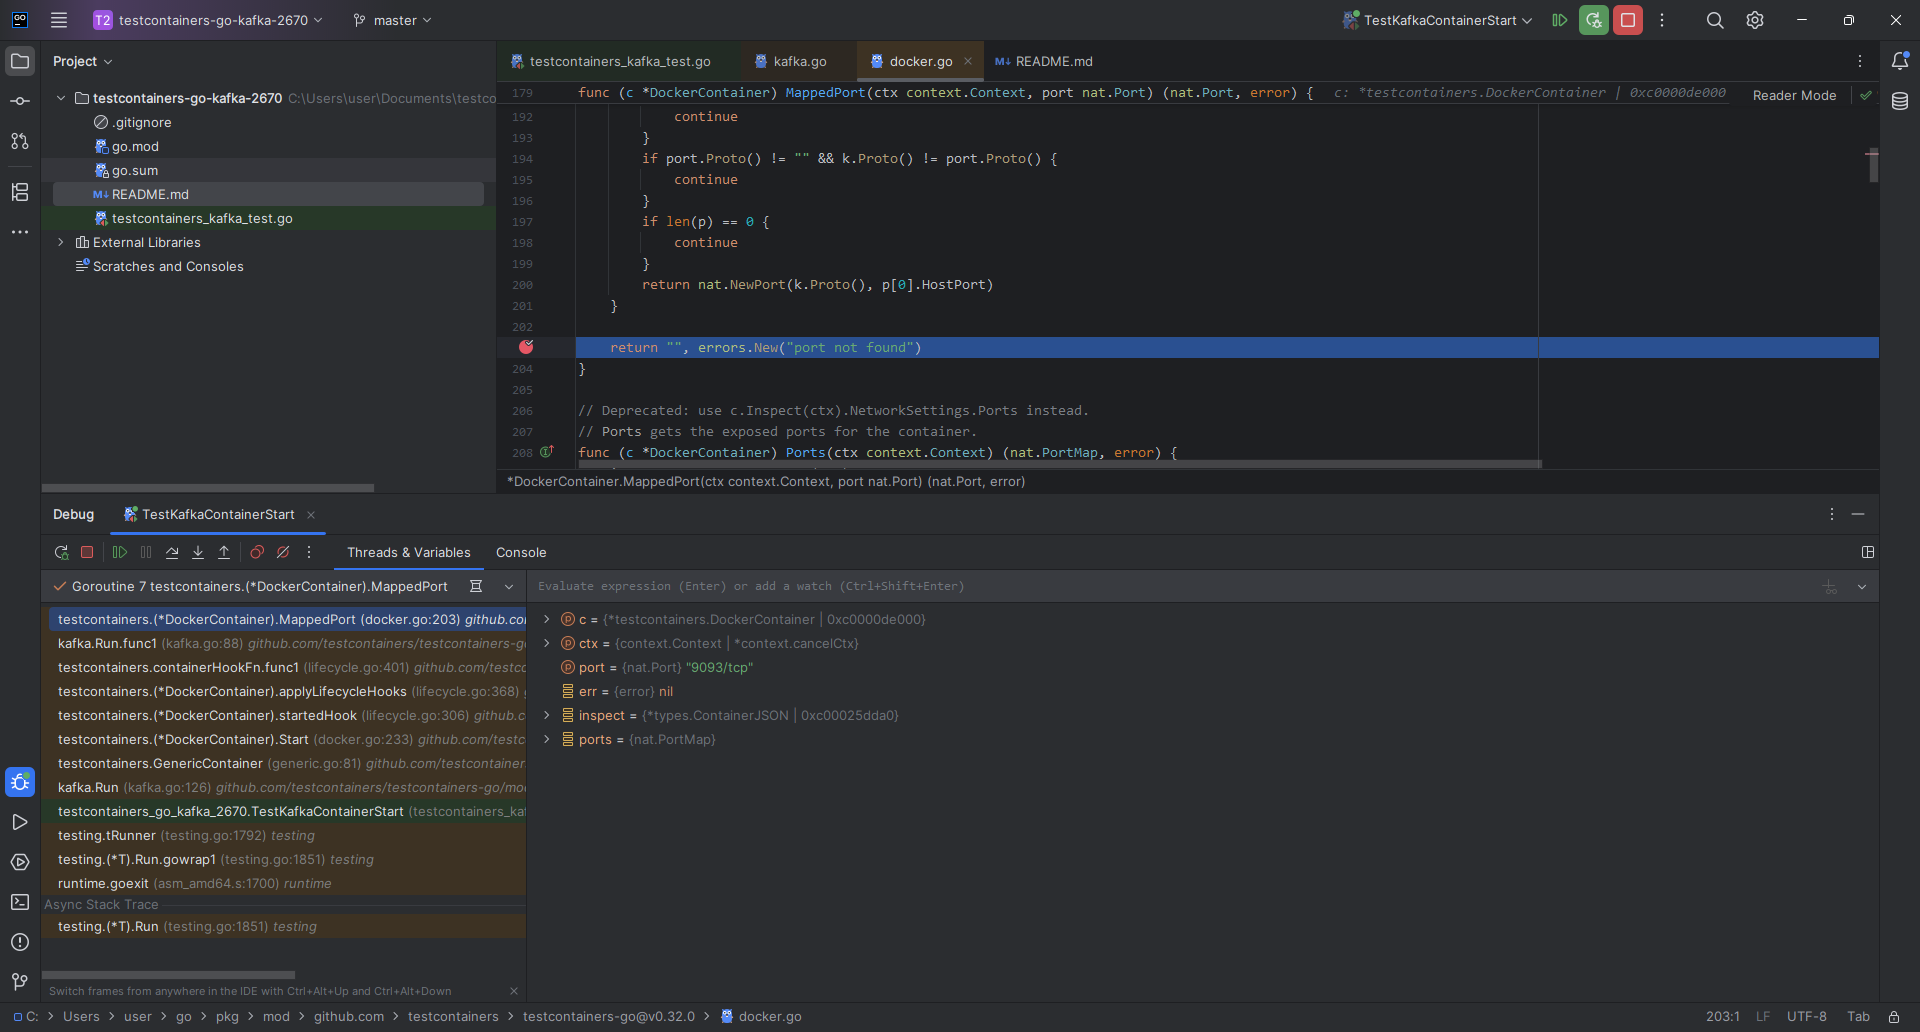
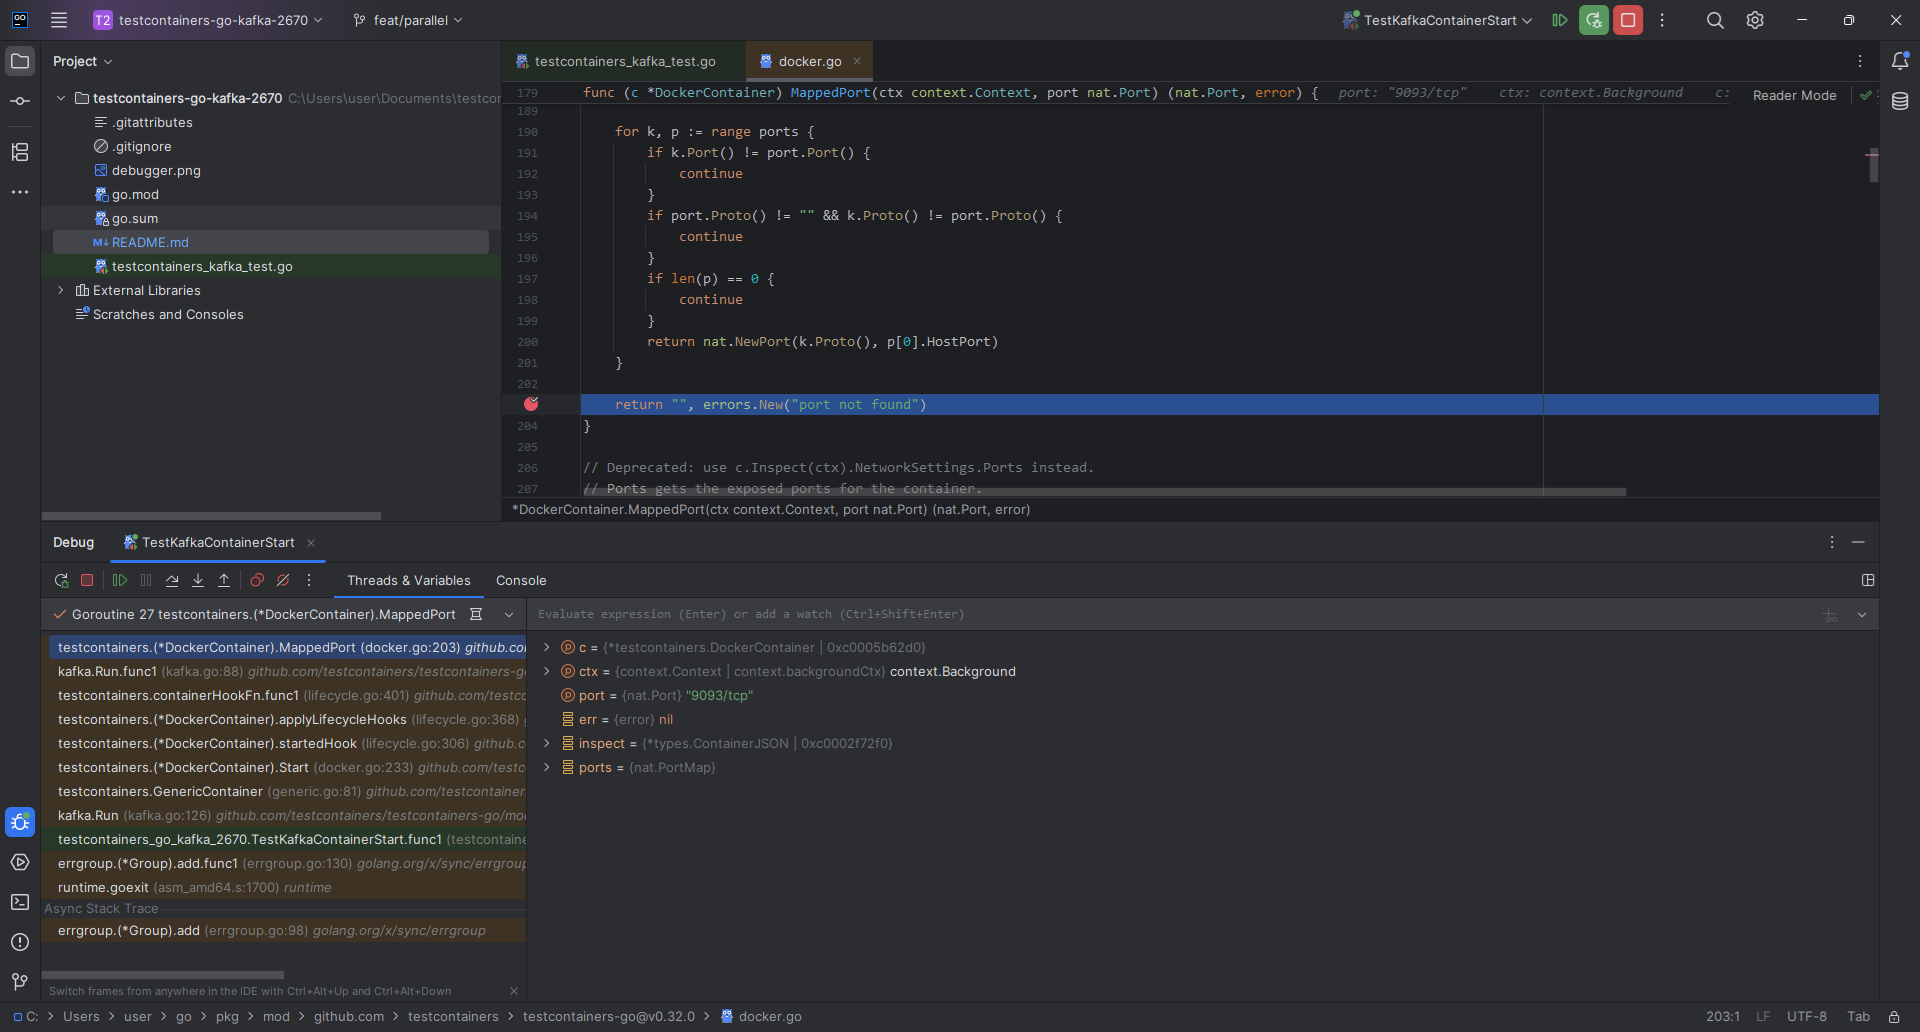
Parallel runs to increase probability of issue.

diff --git a/testcontainers_kafka_test.go b/testcontainers_kafka_test.go
@@ -3,27 +3,42 @@ package testcontainers_go_kafka_2670
 import (
 	"context"
 	"flag"
+	"fmt"
 	"testing"
 
 	"github.com/testcontainers/testcontainers-go/modules/kafka"
+	"golang.org/x/sync/errgroup"
 )
 
-var imageFlag = flag.String("image", "confluentinc/confluent-local:7.5.0", "image with Kafka")
+var (
+	imageFlag = flag.String("image", "confluentinc/confluent-local:7.5.0", "image with Kafka")
+	runsFlag  = flag.Uint("runs", 10, "number of parallel runs")
+)
 
 func TestKafkaContainerStart(t *testing.T) {
 	image := *imageFlag
 	ctx := context.Background()
-	t.Logf("starting container using image: %s", image)
-	container, err := kafka.Run(ctx, image)
-	if err != nil {
-		t.Fatalf("container start failed: %s", err)
+	group := errgroup.Group{}
+	for left := *runsFlag; left > 0; left-- {
+		group.Go(func() error {
+			t.Logf("starting container using image: %s", image)
+			container, err := kafka.Run(ctx, image)
+			if err != nil {
+				return fmt.Errorf("container start failed: %w", err)
+			}
+			defer func() {
+				t.Logf("terminating container: %s", container.GetContainerID())
+				err := container.Terminate(ctx)
+				if err != nil {
+					t.Errorf("container termination failed: %v", err)
+				}
+			}()
+			t.Logf("successfully started container: %s", container.GetContainerID())
+			return nil
+		})
 	}
-	defer func() {
-		t.Logf("terminating container: %s", container.GetContainerID())
-		err := container.Terminate(ctx)
-		if err != nil {
-			t.Errorf("container termination failed: %s", err)
-		}
-	}()
-	t.Logf("successfully started container: %s", container.GetContainerID())
+	err := group.Wait()
+	if err != nil {
+		t.Fatalf("failed to run Kafka container: %v", err)
+	}
 }

diff --git a/README.md b/README.md
@@ -7,22 +7,26 @@ Reproducing https://github.com/testcontainers/testcontainers-go/issues/2670 (mul
     1. Windows 11 23H2
     1. WSL
     1. Docker Desktop v4.41.2
-1. Remove Kafka image used for the test
-    ```shell
-    docker rmi -f confluentinc/confluent-local:7.5.0 && docker system prune --force 
-    ```
-1. Restart Docker Desktop or (better) restart Windows
 1. Run the test
     ```shell
-    go test -v -count 1 ./...
+    go test -v -count 1 -timeout 20m ./...
     ```
 
 Output of test when issue happens
 
 ```text
 === RUN   TestKafkaContainerStart
-    testcontainers_kafka_test.go:14: starting container using image: confluentinc/confluent-local:7.5.0
-2025/05/14 01:36:49 github.com/testcontainers/testcontainers-go - Connected to docker:
+    testcontainers_kafka_test.go:24: starting container using image: confluentinc/confluent-local:7.5.0
+    testcontainers_kafka_test.go:24: starting container using image: confluentinc/confluent-local:7.5.0
+    testcontainers_kafka_test.go:24: starting container using image: confluentinc/confluent-local:7.5.0
+    testcontainers_kafka_test.go:24: starting container using image: confluentinc/confluent-local:7.5.0
+    testcontainers_kafka_test.go:24: starting container using image: confluentinc/confluent-local:7.5.0
+    testcontainers_kafka_test.go:24: starting container using image: confluentinc/confluent-local:7.5.0
+    testcontainers_kafka_test.go:24: starting container using image: confluentinc/confluent-local:7.5.0
+    testcontainers_kafka_test.go:24: starting container using image: confluentinc/confluent-local:7.5.0
+    testcontainers_kafka_test.go:24: starting container using image: confluentinc/confluent-local:7.5.0
+    testcontainers_kafka_test.go:24: starting container using image: confluentinc/confluent-local:7.5.0
+2025/05/14 17:17:41 github.com/testcontainers/testcontainers-go - Connected to docker:
   Server Version: 28.1.1
   API Version: 1.46
   Operating System: Docker Desktop
@@ -30,40 +34,106 @@ Output of test when issue happens
   Testcontainers for Go Version: v0.32.0
   Resolved Docker Host: npipe:////./pipe/docker_engine
   Resolved Docker Socket Path: //var/run/docker.sock
-  Test SessionID: 6fefc8bf9a56308aaa005b5df7fa4c74d1a963a9bc9b81b425b51ef4b73f9343
-  Test ProcessID: ae68bdc4-392a-48f7-8f76-0d320dd9e505
-2025/05/14 01:36:49 🐳 Creating container for image testcontainers/ryuk:0.7.0
-2025/05/14 01:36:49 ✅ Container created: 7d149b1ba68b
-2025/05/14 01:36:49 🐳 Starting container: 7d149b1ba68b
-2025/05/14 01:36:49 ✅ Container started: 7d149b1ba68b
-2025/05/14 01:36:49 ⏳ Waiting for container id 7d149b1ba68b image: testcontainers/ryuk:0.7.0. Waiting for: &{Port:8080/tcp timeout:<nil> PollInterval:100ms}
-2025/05/14 01:36:49 🔔 Container is ready: 7d149b1ba68b
-2025/05/14 01:36:49 Failed to get image auth for https://index.docker.io/v1/. Setting empty credentials for the image: confluentinc/confluent-local:7.5.0. Error is:credentials not found in native keychain
-2025/05/14 01:37:38 🐳 Creating container for image confluentinc/confluent-local:7.5.0
-2025/05/14 01:37:38 ✅ Container created: 478db2838910
-2025/05/14 01:37:38 🐳 Starting container: 478db2838910
-2025/05/14 01:38:38 ✅ Container started: 478db2838910
-2025/05/14 01:38:38 container logs (port not found
+  Test SessionID: 17500ae6967ce6989b6303b14d61aceb1a2d1e73e71972bf71a01c2e6d70dcca
+  Test ProcessID: fca9f2ea-0587-4e4a-86d6-16ca453fe47d
+2025/05/14 17:17:41 🐳 Creating container for image testcontainers/ryuk:0.7.0
+2025/05/14 17:17:42 ✅ Container created: d170ff53fc66
+2025/05/14 17:17:42 🐳 Starting container: d170ff53fc66
+2025/05/14 17:17:42 ✅ Container started: d170ff53fc66
+2025/05/14 17:17:42 ⏳ Waiting for container id d170ff53fc66 image: testcontainers/ryuk:0.7.0. Waiting for: &{Port:8080/tcp timeout:<nil> PollInterval:100ms}
+2025/05/14 17:17:42 🔔 Container is ready: d170ff53fc66
+2025/05/14 17:17:42 🐳 Creating container for image confluentinc/confluent-local:7.5.0
+2025/05/14 17:17:42 🐳 Creating container for image confluentinc/confluent-local:7.5.0
+2025/05/14 17:17:42 🐳 Creating container for image confluentinc/confluent-local:7.5.0
+2025/05/14 17:17:42 🐳 Creating container for image confluentinc/confluent-local:7.5.0
+2025/05/14 17:17:43 🐳 Creating container for image confluentinc/confluent-local:7.5.0
+2025/05/14 17:17:43 🐳 Creating container for image confluentinc/confluent-local:7.5.0
+2025/05/14 17:17:43 🐳 Creating container for image confluentinc/confluent-local:7.5.0
+2025/05/14 17:17:43 🐳 Creating container for image confluentinc/confluent-local:7.5.0
+2025/05/14 17:17:43 🐳 Creating container for image confluentinc/confluent-local:7.5.0
+2025/05/14 17:17:43 🐳 Creating container for image confluentinc/confluent-local:7.5.0
+2025/05/14 17:17:43 ✅ Container created: eb06ae8c9064
+2025/05/14 17:17:43 🐳 Starting container: eb06ae8c9064
+2025/05/14 17:17:43 ✅ Container created: 4cda119749fd
+2025/05/14 17:17:43 🐳 Starting container: 4cda119749fd
+2025/05/14 17:17:43 ✅ Container created: 0bd0091205da
+2025/05/14 17:17:43 🐳 Starting container: 0bd0091205da
+2025/05/14 17:17:43 ✅ Container created: e082ae6c9f74
+2025/05/14 17:17:43 🐳 Starting container: e082ae6c9f74
+2025/05/14 17:17:43 ✅ Container created: 37d52c0ac8a5
+2025/05/14 17:17:43 🐳 Starting container: 37d52c0ac8a5
+2025/05/14 17:17:43 ✅ Container created: 31a5ff67c8e4
+2025/05/14 17:17:43 🐳 Starting container: 31a5ff67c8e4
+2025/05/14 17:17:43 ✅ Container created: ce82d2846a33
+2025/05/14 17:17:43 🐳 Starting container: ce82d2846a33
+2025/05/14 17:17:43 ✅ Container created: 7c59246b4d82
+2025/05/14 17:17:43 🐳 Starting container: 7c59246b4d82
+2025/05/14 17:17:43 ✅ Container created: e013810e81ef
+2025/05/14 17:17:43 🐳 Starting container: e013810e81ef
+2025/05/14 17:17:43 ✅ Container created: ae01d6ae8b23
+2025/05/14 17:17:43 🐳 Starting container: ae01d6ae8b23
+2025/05/14 17:18:05 ✅ Container started: 4cda119749fd
+2025/05/14 17:18:05 🔔 Container is ready: 4cda119749fd
+    testcontainers_kafka_test.go:36: successfully started container: 4cda119749fdaed497d5ec85ec1d3b1df28570161ee797867097adf6ac658a24
+    testcontainers_kafka_test.go:30: terminating container: 4cda119749fdaed497d5ec85ec1d3b1df28570161ee797867097adf6ac658a24
+2025/05/14 17:18:05 🐳 Terminating container: 4cda119749fd
+2025/05/14 17:18:06 ✅ Container started: 31a5ff67c8e4
+2025/05/14 17:18:06 🔔 Container is ready: 31a5ff67c8e4
+    testcontainers_kafka_test.go:36: successfully started container: 31a5ff67c8e448aa9ed0c889e8f1727904c615018aef200c54d8686d47e4fb8b
+    testcontainers_kafka_test.go:30: terminating container: 31a5ff67c8e448aa9ed0c889e8f1727904c615018aef200c54d8686d47e4fb8b
+2025/05/14 17:18:06 🐳 Terminating container: 31a5ff67c8e4
+2025/05/14 17:18:06 ✅ Container started: eb06ae8c9064
+2025/05/14 17:18:06 🔔 Container is ready: eb06ae8c9064
+    testcontainers_kafka_test.go:36: successfully started container: eb06ae8c9064a5fafcfe7bc05e323f146099697595099da2710e6aaab52f8bbb
+    testcontainers_kafka_test.go:30: terminating container: eb06ae8c9064a5fafcfe7bc05e323f146099697595099da2710e6aaab52f8bbb
+2025/05/14 17:18:06 🐳 Terminating container: eb06ae8c9064
+2025/05/14 17:18:06 ✅ Container started: 37d52c0ac8a5
+2025/05/14 17:18:06 🔔 Container is ready: 37d52c0ac8a5
+    testcontainers_kafka_test.go:36: successfully started container: 37d52c0ac8a5ec4779e28088d0b991b90e3efcd71462f7966918eaa0df4b85f0
+    testcontainers_kafka_test.go:30: terminating container: 37d52c0ac8a5ec4779e28088d0b991b90e3efcd71462f7966918eaa0df4b85f0
+2025/05/14 17:18:06 🐳 Terminating container: 37d52c0ac8a5
+2025/05/14 17:18:06 ✅ Container started: ce82d2846a33
+2025/05/14 17:18:06 🔔 Container is ready: ce82d2846a33
+    testcontainers_kafka_test.go:36: successfully started container: ce82d2846a33bbe484e61d47e444dc429df7efb29c679e2e8b40f2fcc3728af2
+    testcontainers_kafka_test.go:30: terminating container: ce82d2846a33bbe484e61d47e444dc429df7efb29c679e2e8b40f2fcc3728af2
+2025/05/14 17:18:06 🐳 Terminating container: ce82d2846a33
+2025/05/14 17:18:06 ✅ Container started: e082ae6c9f74
+2025/05/14 17:18:06 ✅ Container started: e013810e81ef
+2025/05/14 17:18:06 🔔 Container is ready: e013810e81ef
+    testcontainers_kafka_test.go:36: successfully started container: e013810e81ef0c822ad2fa7410b0721e133116af726229efa446926c08e806f6
+    testcontainers_kafka_test.go:30: terminating container: e013810e81ef0c822ad2fa7410b0721e133116af726229efa446926c08e806f6
+2025/05/14 17:18:06 🐳 Terminating container: e013810e81ef
+2025/05/14 17:18:06 🔔 Container is ready: e082ae6c9f74
+    testcontainers_kafka_test.go:36: successfully started container: e082ae6c9f743c9ad49dedacb30edf4f49f317ea7f122bb5eb51be46b299f950
+    testcontainers_kafka_test.go:30: terminating container: e082ae6c9f743c9ad49dedacb30edf4f49f317ea7f122bb5eb51be46b299f950
+2025/05/14 17:18:06 🐳 Terminating container: e082ae6c9f74
+2025/05/14 17:18:06 ✅ Container started: 7c59246b4d82
+2025/05/14 17:18:06 🔔 Container is ready: 7c59246b4d82
+    testcontainers_kafka_test.go:36: successfully started container: 7c59246b4d82e96975c69ab7f0242d8fe2746ffd2827bad8d66860a56484ecb9
+    testcontainers_kafka_test.go:30: terminating container: 7c59246b4d82e96975c69ab7f0242d8fe2746ffd2827bad8d66860a56484ecb9
+2025/05/14 17:18:06 🐳 Terminating container: 7c59246b4d82
+2025/05/14 17:18:07 🚫 Container terminated: 4cda119749fd
+2025/05/14 17:18:07 🚫 Container terminated: 31a5ff67c8e4
+2025/05/14 17:18:08 🚫 Container terminated: eb06ae8c9064
+2025/05/14 17:18:08 🚫 Container terminated: 37d52c0ac8a5
+2025/05/14 17:18:08 🚫 Container terminated: ce82d2846a33
+2025/05/14 17:18:08 🚫 Container terminated: e013810e81ef
+2025/05/14 17:18:09 🚫 Container terminated: 7c59246b4d82
+2025/05/14 17:18:09 🚫 Container terminated: e082ae6c9f74
+2025/05/14 17:18:44 ✅ Container started: 0bd0091205da
+2025/05/14 17:18:44 container logs (port not found
 context deadline exceeded):
 
-    testcontainers_kafka_test.go:17: container start failed: failed to start container: port not found
+2025/05/14 17:18:44 ✅ Container started: ae01d6ae8b23
+2025/05/14 17:18:44 container logs (port not found
+context deadline exceeded):
+
+    testcontainers_kafka_test.go:42: failed to run Kafka container: container start failed: failed to start container: port not found
         context deadline exceeded
---- FAIL: TestKafkaContainerStart (109.70s)
+--- FAIL: TestKafkaContainerStart (63.00s)
 FAIL
-FAIL    github.com/mabrarov/testcontainers-go-kafka-2670        109.794s
+FAIL    github.com/mabrarov/testcontainers-go-kafka-2670        63.093s
 FAIL
-```
-
-Containers of the failed test look like
-
-```text
-$ docker ps -a
-CONTAINER ID   IMAGE                                COMMAND                  CREATED              STATUS              PORTS                                         NAMES
-478db2838910   confluentinc/confluent-local:7.5.0   "sh -c 'while [ ! -f…"   19 seconds ago       Up 18 seconds       8082/tcp, 9092/tcp, 0.0.0.0:62372->9093/tcp   thirsty_diffie
-7d149b1ba68b   testcontainers/ryuk:0.7.0            "/bin/ryuk"              About a minute ago   Up About a minute   0.0.0.0:62338->8080/tcp                       reaper_6fefc8bf9a56308aaa005b5df7fa4c74d1a963a9bc9b81b425b51ef4b73f9343
-$ docker logs -f 478db2838910
-$ echo $?
-0
 ```
 
 The same issue in debugger
